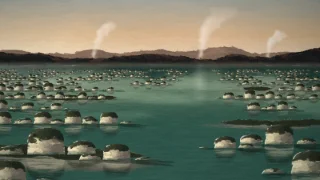
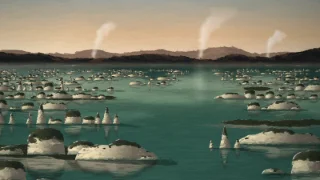
Earliest life: domes, cones and wavy mounds
The painting now uses all three stromatolite parts. Its colour function reads
each mound's geometry from the part's exported shape, so the shading follows
cones and wavy tops. Cones are scaled down and kept few. Description and
picture caveat updated.

diff --git a/tools/extinctions/scenes/earliest-life.ts b/tools/extinctions/scenes/earliest-life.ts
@@ -10,7 +10,8 @@
 // Built in the order of the worked example (end-cretaceous.ts): light as colour
 // functions, a lay-in, brushwork far to near, figures, then the air.
 
-import { type Rng, clamp, mix, path, ramp } from '../../../src/scenes/draw';
+import { type Rng, clamp, makeRng, mix, path, ramp } from '../../../src/scenes/draw';
+import { type StromBody, coneShape, wavyShape } from '../../../src/scenes/parts/stromatolite-forms';
 import { H, Painting, type Pt, W, castShadow, figure, groundPlane, lum, mirror, noise1, noise2, smooth, toward, vary } from '../paint';
 
 const CHAPTER = 'Precambrian';
@@ -34,12 +35,12 @@ const ease = (t: number) => {
   return k * k * (3 - 2 * k);
 };
 
-/** The three mounds of the `stromatolite` part, front one first: [centre x, width, height] in part units. */
-const MOUNDS: [number, number, number][] = [
-  [1, 28, 31],
-  [29, 20, 17],
-  [-27, 22, 21],
-];
+/** The three domes of the `stromatolite` part, front one first, as bodies whose top is flat across their width (the old box test). */
+const DOMES: StromBody[] = ([[1, 28, 31], [29, 20, 17], [-27, 22, 21]] as const).map(([x, w, h]) => ({ x, half: w / 2, h, top: (dx: number) => (Math.abs(dx) <= w / 2 ? h : 0) }));
+
+/** The three shapes of stromatolite, as library parts. */
+type Form = 'dome' | 'cone' | 'wavy';
+const PART: Record<Form, string> = { dome: 'stromatolite', cone: 'stromatolite-cone', wavy: 'stromatolite-wavy' };
 
 interface Mound {
   x: number;
@@ -50,7 +51,21 @@ interface Mound {
   pale: number;
   /** How much of the part's foot is under the water and the silt, in part units. */
   sink: number;
+  form?: Form;
+  /** The part's seed: cones and wavy mounds differ by seed. */
+  seed?: number;
 }
+
+/** The bodies of a mound's part, front one first, as the part draws them with the mound's seed. */
+const bodyCache = new WeakMap<Mound, StromBody[]>();
+const bodiesOf = (m: Mound): StromBody[] => {
+  let b = bodyCache.get(m);
+  if (!b) {
+    b = m.form === 'cone' ? [...coneShape(makeRng(m.seed!))].reverse() : m.form === 'wavy' ? [...wavyShape(makeRng(m.seed!))].reverse() : DOMES;
+    bodyCache.set(m, b);
+  }
+  return b;
+};
 
 export function paint(): string {
   const p = new Painting(3430);
@@ -271,6 +286,24 @@ export function paint(): string {
   rows.push([{ x: 580, y: 800, s: 4.8, flip: false, pale: 0.98, sink: 14 }]);
   rows.push([{ x: 1556, y: 868, s: 6.4, flip: true, pale: 0.97, sink: 13 }]);
   rows.push([{ x: 30, y: 906, s: 6.6, flip: false, pale: 0.95, sink: 15 }]);
+  // Three shapes, as in the Strelley Pool reef: domes, steep cones and low wavy mounds. The far ranks mix them by
+  // chance; the six near ones are chosen by hand, with the tall cones kept to the middle sizes.
+  const fr = p.sub('forms');
+  for (const row of rows.slice(0, -6)) {
+    for (const m of row) {
+      const u = fr();
+      m.form = u < 0.5 ? 'dome' : u < 0.7 ? 'cone' : 'wavy';
+      m.seed = fr.int(1, 9999);
+    }
+  }
+  const NEAR: Form[] = ['wavy', 'cone', 'dome', 'wavy', 'dome', 'dome'];
+  rows.slice(-6).forEach((row, i) => Object.assign(row[0]!, { form: NEAR[i], seed: 40 + i * 7 }));
+  for (const m of rows.flat()) {
+    // A wavy mound is low: less of it stands in the water.
+    if (m.form === 'wavy') m.sink *= 0.6;
+    // The cone part is twice as tall as the domes; here they stand only a little above them.
+    if (m.form === 'cone') m.s *= 0.72;
+  }
 
   const SHADE = mix(mix(CREAM, RUST, 0.4), mix(INK, ZENITH, 0.26), 0.66);
   const LIVING = mix(MAT, INK, 0.3);
@@ -281,19 +314,25 @@ export function paint(): string {
       const lx = ((x - m.x) / m.s) * (m.flip ? -1 : 1);
       const up = (m.y + m.sink * m.s - y) / m.s;
       const wet = clamp(1 - (m.y - y) / m.s / 2.6, 0, 1);
-      if (Math.abs(lx) > 46 || up < -3 || up > 36) continue;
-      for (const [cx, w, h] of MOUNDS) {
-        const dx = lx - cx;
-        if (Math.abs(dx) > w / 2 + 1.5 || up > h + 1.5) continue;
+      if (Math.abs(lx) > 70 || up < -3 || up > 70) continue;
+      for (const b of bodiesOf(m)) {
+        const { h } = b;
+        const w = b.half * 2;
+        const dx = lx - b.x;
+        if (Math.abs(dx) > b.half + 1.5 || up > b.top(dx) + 1.5) continue;
         const k = clamp(up / h, 0, 1);
-        const side = (dx / (w / 2)) * (m.flip ? -1 : 1); // -1: the left of the dome, which faces the sun
+        // A cone narrows as it rises, so its light turns across its width at every height.
+        const across = m.form === 'cone' ? Math.max(1.5, b.half * (1 - k)) : b.half;
+        const side = clamp(dx / across, -1, 1) * (m.flip ? -1 : 1); // -1: the left of the mound, which faces the sun
         const lit = clamp(0.46 - side * 0.8 + (k - 0.5) * 0.2, 0, 1);
         let c = mix(SHADE, mix(CREAM, '#f8dc9c', 0.22), ease(lit) * clamp(m.pale, 0, 1));
-        c = mix(c, mix(SHADE, RUST, 0.25), clamp(Math.sin(up * 1.15 + dx * 0.12) * 1.5 - 0.6, 0, 1) * 0.2);
+        // Faint layers: level in a dome, following the top in a cone or a wavy mound.
+        const layer = m.form === 'cone' || m.form === 'wavy' ? (b.top(dx) - up) * 1.3 : up * 1.15 + dx * 0.12;
+        c = mix(c, mix(SHADE, RUST, 0.25), clamp(Math.sin(layer) * 1.5 - 0.6, 0, 1) * 0.2);
         c = mix(c, mix(GREEN, INK, 0.5), wet * 0.7);
         // The living mat covers the upper part of what stands clear of the water.
         const kv = clamp((up - m.sink) / Math.max(1, h - m.sink), 0, 1);
-        const cap = 0.56 + 0.06 * Math.cos((dx / w) * Math.PI * 2) + capN(x, y) * 0.16;
+        const cap = (m.form === 'wavy' ? 0.62 : 0.56) + 0.06 * Math.cos((dx / w) * Math.PI * 2) + capN(x, y) * 0.16;
         if (kv > cap) c = mix(LIVING, mix('#5b5a30', CREAM, 0.1), ease(lit) * 0.4);
         return vary(c, r, 0.016);
       }
@@ -304,7 +343,8 @@ export function paint(): string {
   const moundTone = (hex: string) => (lum(hex) < 0.45 ? LIVING : lum(hex) > 0.6 ? mix(SHADE, RUST, 0.2) : mix(SHADE, CREAM, 0.5));
   const farAir = mix(mix(GREEN, INK, 0.3), SKY, 0.3);
   const fade = (m: Mound) => 0.34 * (1 - clamp((m.y - HZ) / 260, 0, 1));
-  const make = (m: Mound, tone: (hex: string) => string = toward(farAir, fade(m), moundTone)) => figure('stromatolite', CHAPTER, { x: m.x, y: m.y + m.sink * m.s, scale: m.s, flip: m.flip, tone, detail: m.s > 1.4, lightFrom: 'left' });
+  const make = (m: Mound, tone: (hex: string) => string = toward(farAir, fade(m), moundTone)) =>
+    figure(PART[m.form ?? 'dome'], CHAPTER, { x: m.x, y: m.y + m.sink * m.s, scale: m.s, flip: m.flip, tone, detail: m.s > 1.4, lightFrom: 'left', seed: m.seed });
 
   // Reflections in the still water, and the long shadows the low sun throws to the right: all laid before any mound.
   const all = rows.flat();
@@ -318,7 +358,7 @@ export function paint(): string {
     const r = `<g clip-path="url(#below${m.y})">${mirror(make(m), m.y)}</g>`;
     if (m.s < 1.6) reflFar += r;
     else reflNear += r;
-    if (m.s > 0.5) shadows += castShadow(figure('stromatolite', CHAPTER, { x: 0, y: 0, scale: m.s, flip: m.flip, tone: () => shadowDark }), m.x, m.y - 1, 1.7, 0.2);
+    if (m.s > 0.5) shadows += castShadow(figure(PART[m.form ?? 'dome'], CHAPTER, { x: 0, y: 0, scale: m.s, flip: m.flip, tone: () => shadowDark, seed: m.seed }), m.x, m.y - 1, 1.7, 0.2);
   }
   p.add(`<g opacity="0.5">${p.dry(p.blur(reflFar, 0.8, 2.6), { hold: 0.74, grainX: 40, grainY: 3, seed: 14 })}</g>`);
   p.add(`<g opacity="0.6">${p.dry(p.blur(reflNear, 2, 9), { hold: 0.72, grainX: 90, grainY: 6, seed: 15 })}</g>`);

diff --git a/src/match/turning-points-precambrian-text.ts b/src/match/turning-points-precambrian-text.ts
@@ -85,9 +85,9 @@ export const TEXT: Record<string, EventText> = {
       'Allwood, A.C. et al. (2018) Reassessing evidence of life in 3,700-million-year-old rocks of Greenland. Nature 563, 241-244.',
       'Baumgartner, R.J. et al. (2019) Nano-porous pyrite and organic matter in 3.5-billion-year-old stromatolites record primordial life. Geology 47, 1039-1043.',
     ],
-    picture: "A painting. Ranks of pale cream stromatolites, low rounded mounds built by microbes and capped with dark living mat, stand in shallow clear green water at low tide, each with its reflection, and patches of dark microbial mat lie on the wet flats between them. Behind them is a bare black and rust-brown volcanic shore with low hills, where three columns of white steam rise from hot springs into a hazy, pale orange morning sky.",
+    picture: "A painting. Ranks of pale cream stromatolites, mounds built by microbes and capped with dark living mat, some rounded domes, some steep cones and some low and wavy, stand in shallow clear green water at low tide, each with its reflection, and patches of dark microbial mat lie on the wet flats between them. Behind them is a bare black and rust-brown volcanic shore with low hills, where three columns of white steam rise from hot springs into a hazy, pale orange morning sky.",
     pictureCaveats: [
-      "Every mound is drawn as the same rounded dome. The real reef had seven kinds, cones and wavy layered mounds among them, and the size of the mounds and their regular ranks are the painter's.",
+      "The mounds are drawn in three shapes, rounded domes, steep cones and low wavy mounds, all found in the real reef, which had seven kinds. How the shapes are mixed, the size of the mounds and their regular ranks are the painter's.",
       "The dark color of the living mat and the clear green of the water are convention. Neither is known.",
       "The steam is borrowed. The hot-spring deposits are in the Dresser Formation, about 50 million years older than the reef shown.",
       "The orange haze and the look of the bare shore are assumptions. In air without free oxygen, methane can build a haze of hydrocarbons, as it does on Saturn's moon Titan, but the rocks record such a haze only between about 2.7 and 2.5 billion years ago, long after this reef. What color the sky was at this time is not known.",
